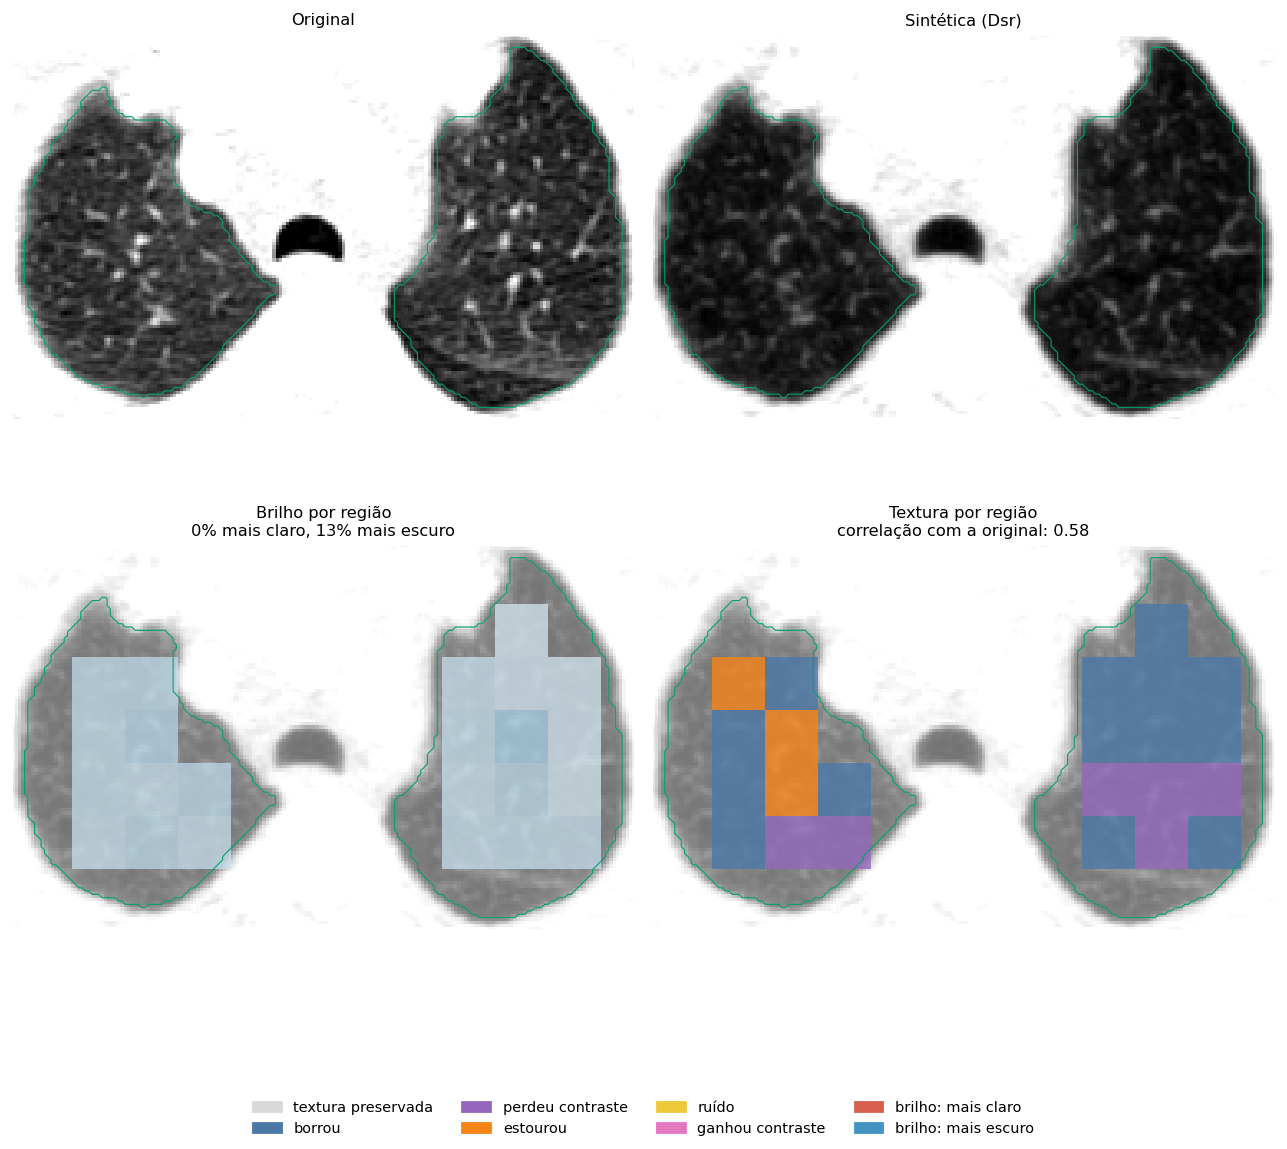
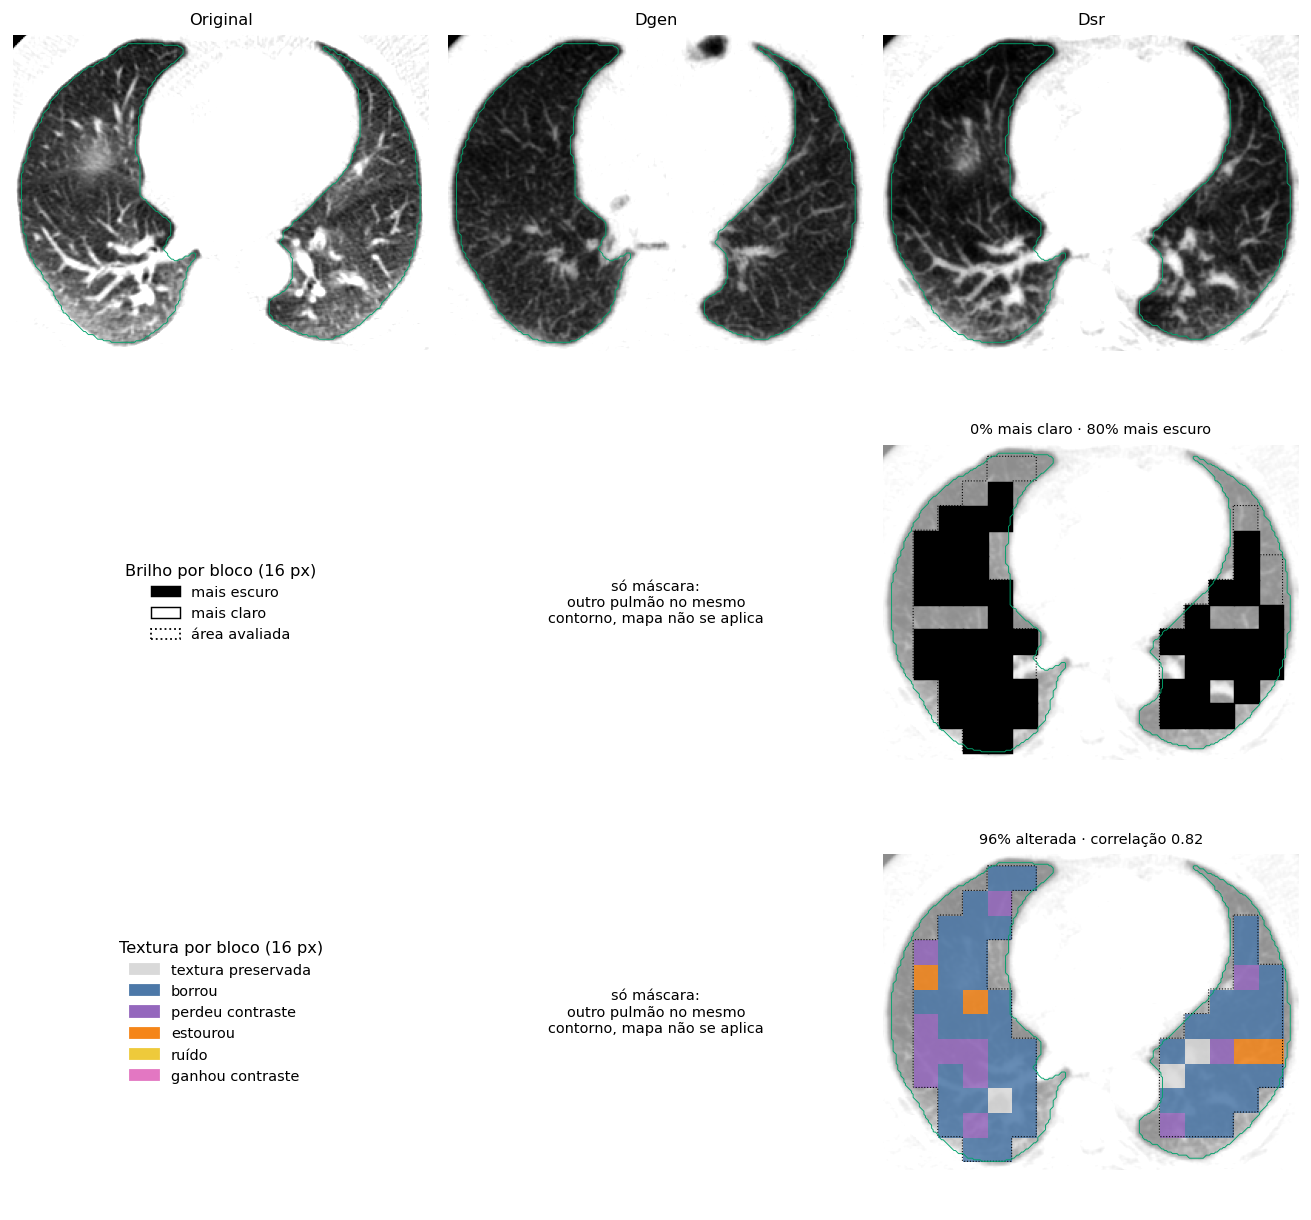
Mostra um corte em todas as versões, com brilho e textura em mapas separados
case_figure desenha a original e a sintética de cada versão lado a lado;
o mapa de brilho só marca blocos que clarearam (branco) ou escureceram
(preto) além da tolerância e o de textura só o veredito Wavelet, cada um
com a própria legenda. Versões no modo só máscara mostram a imagem, sem
mapa. A interface compara o corte escolhido em todas as versões.

diff --git a/frameworks/texture_evaluator/placar.py b/frameworks/texture_evaluator/placar.py
@@ -44,10 +44,11 @@ from typing import Callable, NamedTuple
 
 import matplotlib.pyplot as plt
 import numpy as np
-from matplotlib.patches import Patch
+from matplotlib.colors import ListedColormap
+from matplotlib.patches import Patch, Rectangle
 
 from wavelet.src.load_data import CasePaths, discover_cases
-from wavelet.src.mapa_regioes import VERDICT_COLORS, VERDICTS, draw_row
+from wavelet.src.mapa_regioes import VERDICT_COLORS, VERDICTS
 from wavelet.src.run_pipeline import write_csv
 from wavelet.src.validate_cases import ValidCase, validate_case
 from frameworks.texture_evaluator.regional import MASK_ONLY, apply_pair_check, regional
@@ -301,26 +302,74 @@ def build_board(history_dir: Path) -> dict | None:
     }
 
 
-def case_map(history_dir: Path, version: str, case_id: str):
-    """Figura do mapa por região de um corte: original, sintética, brilho e textura por bloco."""
-    history = load_history(history_dir)
-    entry = next(v for v in history["versions"] if v["name"] == version)
-    if entry.get("mode") == MASK_ONLY:
-        raise PlacarError(f"{version} está no modo só máscara: a sintética não tem a mesma anatomia da original, então o mapa por região não se aplica")
+# brilho em preto e branco (escureceu = preto, clareou = branco), para não se confundir com as cores da textura
+BRIGHT_STYLE = {"mais escuro": dict(facecolor="black", edgecolor="black"), "mais claro": dict(facecolor="white", edgecolor="black")}
+
+
+def load_case(entry: dict, case_id: str) -> ValidCase:
     paths = next((p for p in case_paths(Path(entry["folder"]), Path(entry["mask_dir"]) if entry["mask_dir"] else None) if p.case_id == case_id), None)
     if paths is None:
         raise PlacarError(f"{case_id} não encontrado em {entry['folder']}")
     case = validate_case(paths, erosion_radius=2)
     if not isinstance(case, ValidCase):
-        raise PlacarError(f"{case_id}: {case.reason}")
+        raise PlacarError(f"{case_id} em {entry['name']}: {case.reason}")
+    return case
+
+
+def case_figure(history_dir: Path, case_id: str):
+    """Um corte em todas as versões do histórico, lado a lado.
+
+    Colunas: a original e cada versão. Linhas: a imagem; o brilho por bloco (só
+    os blocos que clarearam ou escureceram além da tolerância); o veredito de
+    textura por bloco. Cada linha tem a própria legenda. Versões no modo só
+    máscara mostram a imagem, mas não o mapa.
+    """
+    history = load_history(history_dir)
     ctx = context_from_dict(history["calibration"])
-    readings, lung, stats = regional(case.original, case.synthetic, case.lung_mask, ctx)
-    fig, axes = plt.subplots(2, 2, figsize=(10, 9.5))
-    draw_row(axes.ravel(), f"Sintética ({version})", case, case.synthetic, readings, lung, ctx.interval, 16, stats)
-    handles = [Patch(color=color, label=name) for name, color in zip(VERDICTS, VERDICT_COLORS)]
-    handles += [Patch(color="#d6604d", label="brilho: mais claro"), Patch(color="#4393c3", label="brilho: mais escuro")]
-    fig.legend(handles=handles, loc="lower center", ncol=4, fontsize=8, frameon=False)
-    fig.tight_layout(rect=(0, 0.07, 1, 1))
+    versions = history["versions"]
+    cases = [load_case(entry, case_id) for entry in versions]
+    reference = cases[0]
+    rows_, cols_ = np.where(reference.lung_mask)
+    crop = (cols_.min() - 6, cols_.max() + 6, rows_.max() + 6, rows_.min() - 6)
+    window = dict(cmap="gray", vmin=ctx.interval["p1"], vmax=ctx.interval["p99"])
+
+    fig, axes = plt.subplots(3, len(versions) + 1, figsize=(3.4 * (len(versions) + 1), 9.6), squeeze=False)
+    for axis in axes.ravel():
+        axis.axis("off")
+    axes[0, 0].imshow(reference.original, **window)
+    axes[0, 0].set_title("Original", fontsize=9)
+    axes[1, 0].legend(handles=[Patch(label=name, linewidth=.8, **style) for name, style in BRIGHT_STYLE.items()] + [Patch(facecolor="none", edgecolor="black", linestyle=":", label="área avaliada")],
+                      title="Brilho por bloco (16 px)", loc="center", fontsize=8, title_fontsize=9, frameon=False)
+    axes[2, 0].legend(handles=[Patch(color=color, label=name) for name, color in zip(VERDICTS, VERDICT_COLORS)],
+                      title="Textura por bloco (16 px)", loc="center", fontsize=8, title_fontsize=9, frameon=False)
+    for column, (entry, case) in enumerate(zip(versions, cases), start=1):
+        axes[0, column].imshow(case.synthetic, **window)
+        axes[0, column].set_title(entry["name"], fontsize=9)
+        if entry.get("mode") == MASK_ONLY:
+            for row in (1, 2):
+                axes[row, column].text(.5, .5, "só máscara:\noutro pulmão no mesmo\ncontorno, mapa não se aplica", ha="center", va="center", fontsize=8, transform=axes[row, column].transAxes)
+            continue
+        readings, lung, stats = regional(case.original, case.synthetic, case.lung_mask, ctx)
+        extent = (0, lung.shape[1] * 16, lung.shape[0] * 16, 0)
+        evaluated = np.kron(lung, np.ones((16, 16)))
+        shift = ctx.maps["bright_shift"]
+        texture = np.where(lung, readings["verdict"], np.nan).astype(float)
+        for row in (1, 2):
+            axes[row, column].imshow(case.synthetic, **window, alpha=.45)
+            axes[row, column].contour(evaluated, levels=[.5], colors="black", linewidths=.6, linestyles=":")
+        for (y, x) in zip(*np.where(lung)):
+            name = "mais claro" if readings["ll"][y, x] > shift else "mais escuro" if readings["ll"][y, x] < -shift else None
+            if name:
+                axes[1, column].add_patch(Rectangle((x * 16, y * 16), 16, 16, linewidth=.8, **BRIGHT_STYLE[name]))
+        axes[1, column].set_title(f"{stats['area_mais_claro']:.0%} mais claro · {stats['area_mais_escuro']:.0%} mais escuro", fontsize=8)
+        axes[2, column].imshow(texture, cmap=ListedColormap(VERDICT_COLORS), vmin=-.5, vmax=len(VERDICTS) - .5, extent=extent, alpha=.85, interpolation="nearest")
+        axes[2, column].set_title(f"{1 - stats['area_textura preservada']:.0%} alterada · correlação {stats['correlacao_textura']:.2f}", fontsize=8)
+    for axis in axes.ravel():
+        if axis.images:
+            axis.contour(reference.lung_mask, levels=[.5], colors="#00a36c", linewidths=.5)
+            axis.set_xlim(crop[0], crop[1])
+            axis.set_ylim(crop[2], crop[3])
+    fig.tight_layout()
     return fig
 
 

diff --git a/frameworks/texture_evaluator/ui_placar.py b/frameworks/texture_evaluator/ui_placar.py
@@ -19,10 +19,9 @@ import pandas as pd  # noqa: E402
 import streamlit as st  # noqa: E402
 
 from frameworks.texture_evaluator.placar import (  # noqa: E402
-    CHANGE_NOTE, GROUPS, INDICATORS, VERSION_HEADER, PlacarError, add_version, build_board, case_map, change_table,
+    CHANGE_NOTE, GROUPS, INDICATORS, VERSION_HEADER, PlacarError, add_version, build_board, case_figure, change_table,
     count_table, figure, load_history, remove_version, score_table, version_table, write_outputs,
 )
-from frameworks.texture_evaluator.regional import MASK_ONLY  # noqa: E402
 
 # colunas da tabela por corte, por seção
 CASE_COLUMNS = {
@@ -147,22 +146,31 @@ if status != "todos":
 cases = cases.sort_values("case_id" if order == "corte" else sortable[order])
 st.dataframe(cases, hide_index=True, width="stretch")
 
-st.subheader("Mapa por região")
-entry = next(v for v in board["history"]["versions"] if v["name"] == version)
-if entry.get("mode") == MASK_ONLY:
-    st.markdown(f"{version} está no modo só máscara: a sintética não tem a mesma anatomia da original, então o mapa por região não se aplica.")
-elif not len(cases):
+# ---------------------------------------------------------------- um corte em todas as versões
+st.header("Um corte em todas as versões")
+st.markdown("Escolha um corte (a lista segue o filtro e a ordem da tabela acima) para ver a original e a sintética de cada versão do histórico lado a lado, com o mapa de brilho e o de textura de cada uma.")
+if not len(cases):
     st.markdown("Nenhum corte com esse filtro.")
 else:
     case_id = st.selectbox("Corte", list(cases["case_id"]))
-    row = next(r for r in board["rows"][version] if r["case_id"] == case_id)
-    st.markdown(f"Veredito: {row['final_status']} · {row['final_reasons']}")
+    compare_columns = ["final_status", "final_reasons", "pair_status", "abs_delta_mu", "wavelet_verdict", "wavelet_fine_pct", "wavelet_coarse_pct", "map_area_textura_alterada_pct", "map_corr_textura"]
+    per_version = pd.DataFrame([{"versão": name, **{column: next(r for r in board["rows"][name] if r["case_id"] == case_id)[column] for column in compare_columns}} for name in names])
+    for column in per_version.columns:
+        numeric = pd.to_numeric(per_version[column], errors="coerce")
+        if numeric.notna().any():
+            per_version[column] = numeric.round(3)
+    st.dataframe(per_version, hide_index=True, width="stretch")
     try:
-        fig = case_map(history_dir, version, case_id)
+        with st.spinner("Desenhando..."):
+            fig = case_figure(history_dir, case_id)
         st.pyplot(fig, width="stretch")
         plt.close(fig)
     except PlacarError as error:
         st.error(str(error))
-    st.markdown("Blocos de 16 px com ≥ 90% de pulmão. Brilho: deslocamento da média do bloco em relação ao mesmo bloco da original (vermelho = mais claro, azul = mais escuro). Textura: veredito Wavelet do bloco.")
+    st.markdown(
+        "Blocos de 16 px com ≥ 90% de pulmão (contorno pontilhado = área avaliada), cada um comparado com o mesmo bloco da original. "
+        "Brilho: preto = escureceu, branco = clareou além da tolerância; sem preenchimento = dentro da tolerância. "
+        "Textura: veredito Wavelet do bloco. Versões no modo só máscara mostram a imagem, mas não o mapa."
+    )
 
 st.markdown(f"Arquivos em {short(history_dir)}: placar.md, placar.csv, comparacao.csv, por_caso.csv")

diff --git a/frameworks/texture_evaluator/README.md b/frameworks/texture_evaluator/README.md
@@ -58,7 +58,7 @@ Para acompanhar o modelo ao longo das iterações. Cada versão é a pasta de sa
   --version v2=CAMINHO/DA/VERSAO2
 ```
 
-Cada par é montado pelo nome (`X.tiff` ↔ `X_generate.tiff` ↔ `X_mask.tiff`) e conferido em [`regional.py`](regional.py). No modo **mesma anatomia** (como o Dsr), um par com correlação < 0,5 com a original é rejeitado como suspeito (arquivo trocado?). No modo **só máscara** (como o Dgen), o par só é conferido pelo nome e o mapa por região não se aplica. O placar e a interface separam **veredito final**, **brilho** e **textura**; o mapa por região (blocos de 16 px) entra como indicadores de área e correlação espacial, e a interface abre o mapa de qualquer corte.
+Cada par é montado pelo nome (`X.tiff` ↔ `X_generate.tiff` ↔ `X_mask.tiff`) e conferido em [`regional.py`](regional.py). No modo **mesma anatomia** (como o Dsr), um par com correlação < 0,5 com a original é rejeitado como suspeito (arquivo trocado?). No modo **só máscara** (como o Dgen), o par só é conferido pelo nome e o mapa por região não se aplica. O placar e a interface separam **veredito final**, **brilho** e **textura**; o mapa por região (blocos de 16 px) entra como indicadores de área e correlação espacial, e a interface mostra qualquer corte em todas as versões lado a lado, com um mapa de brilho e outro de textura.
 
 `--remove NOME` tira uma versão. O resultado fica em `placar.md` (mediana de cada indicador com intervalo de 95%, vereditos e se cada versão melhorou, piorou ou não mudou em relação à anterior), `placar.csv`, `comparacao.csv` e `por_caso.csv`. Exemplo e validação em [`resultados/placar_versoes/resumo.md`](../../resultados/placar_versoes/resumo.md).
 

diff --git a/resultados/placar_versoes/resumo.md b/resultados/placar_versoes/resumo.md
@@ -44,7 +44,7 @@ O placar separa os indicadores em três grupos:
 | Brilho | \|Δμ\|, % dos cortes com brilho sinalizado (filtro ou densidade), **área do pulmão com brilho local alterado** (mapa) |
 | Textura | detalhe fino e grosso, razão fino/grosso, contraste GLCM, % dos cortes com textura alterada, **área do pulmão com textura alterada** e **correlação espacial da textura** (mapa) |
 
-O **mapa por região** divide o pulmão em blocos de 16 px e dá a cada bloco o deslocamento de brilho e o veredito de textura, comparando com o mesmo bloco da original (`mapa_exemplo.png`: o corte do Dsr com a textura menos no lugar, correlação 0,58). Na interface, qualquer corte pode ser aberto no mapa.
+O **mapa por região** divide o pulmão em blocos de 16 px e compara cada bloco com o mesmo bloco da original, em dois mapas separados: **brilho** (preto = escureceu, branco = clareou além da tolerância; sem preenchimento = normal) e **textura** (veredito Wavelet do bloco). Na interface, qualquer corte pode ser aberto em **todas as versões do histórico lado a lado**. Versões no modo só máscara mostram a imagem, mas não o mapa. Em `mapa_exemplo.png` está o corte 053, que escureceu no Dsr: 80% do pulmão mais escuro, e a textura borrada em quase todo o pulmão.
 
 No Dsr: em mediana, 93% da área do pulmão tem textura alterada (sobretudo "borrou"), a textura está nos lugares certos (correlação 0,87), e quase nenhuma área tem brilho local alterado.
 
